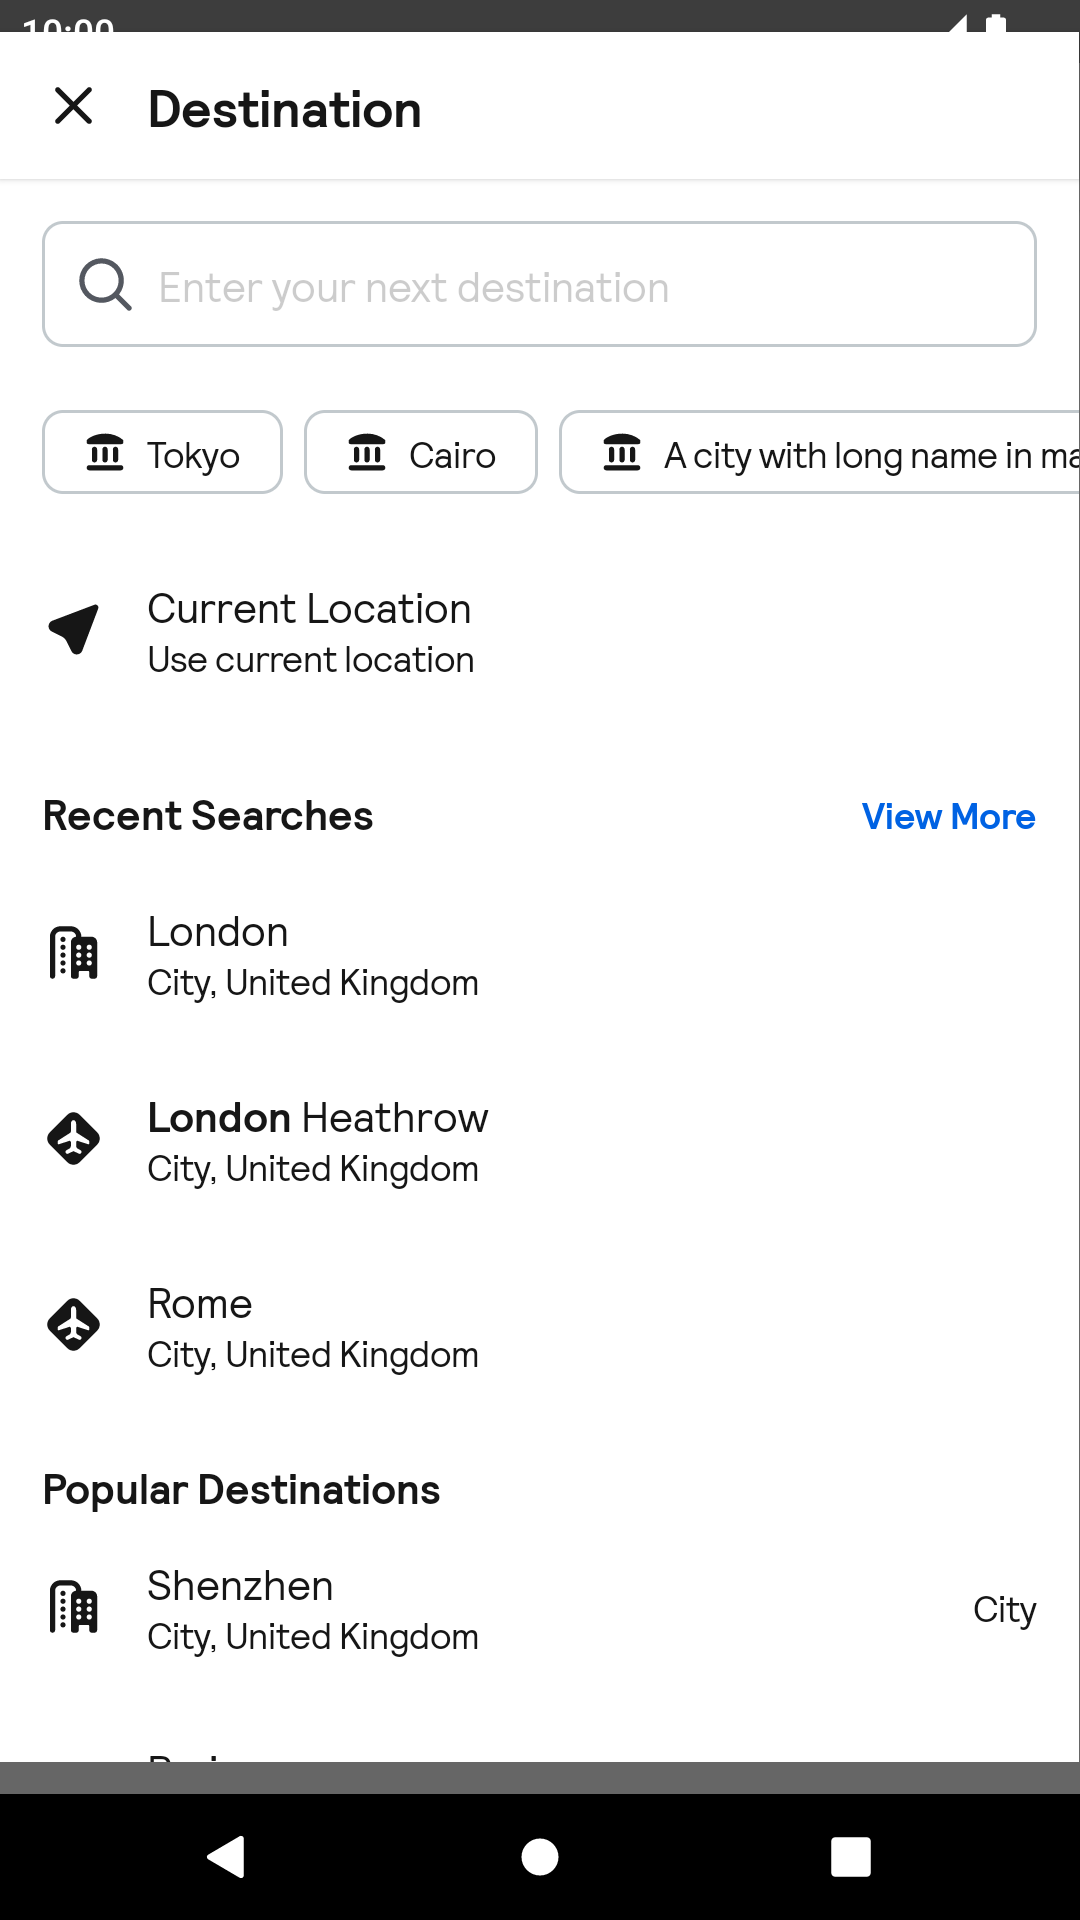
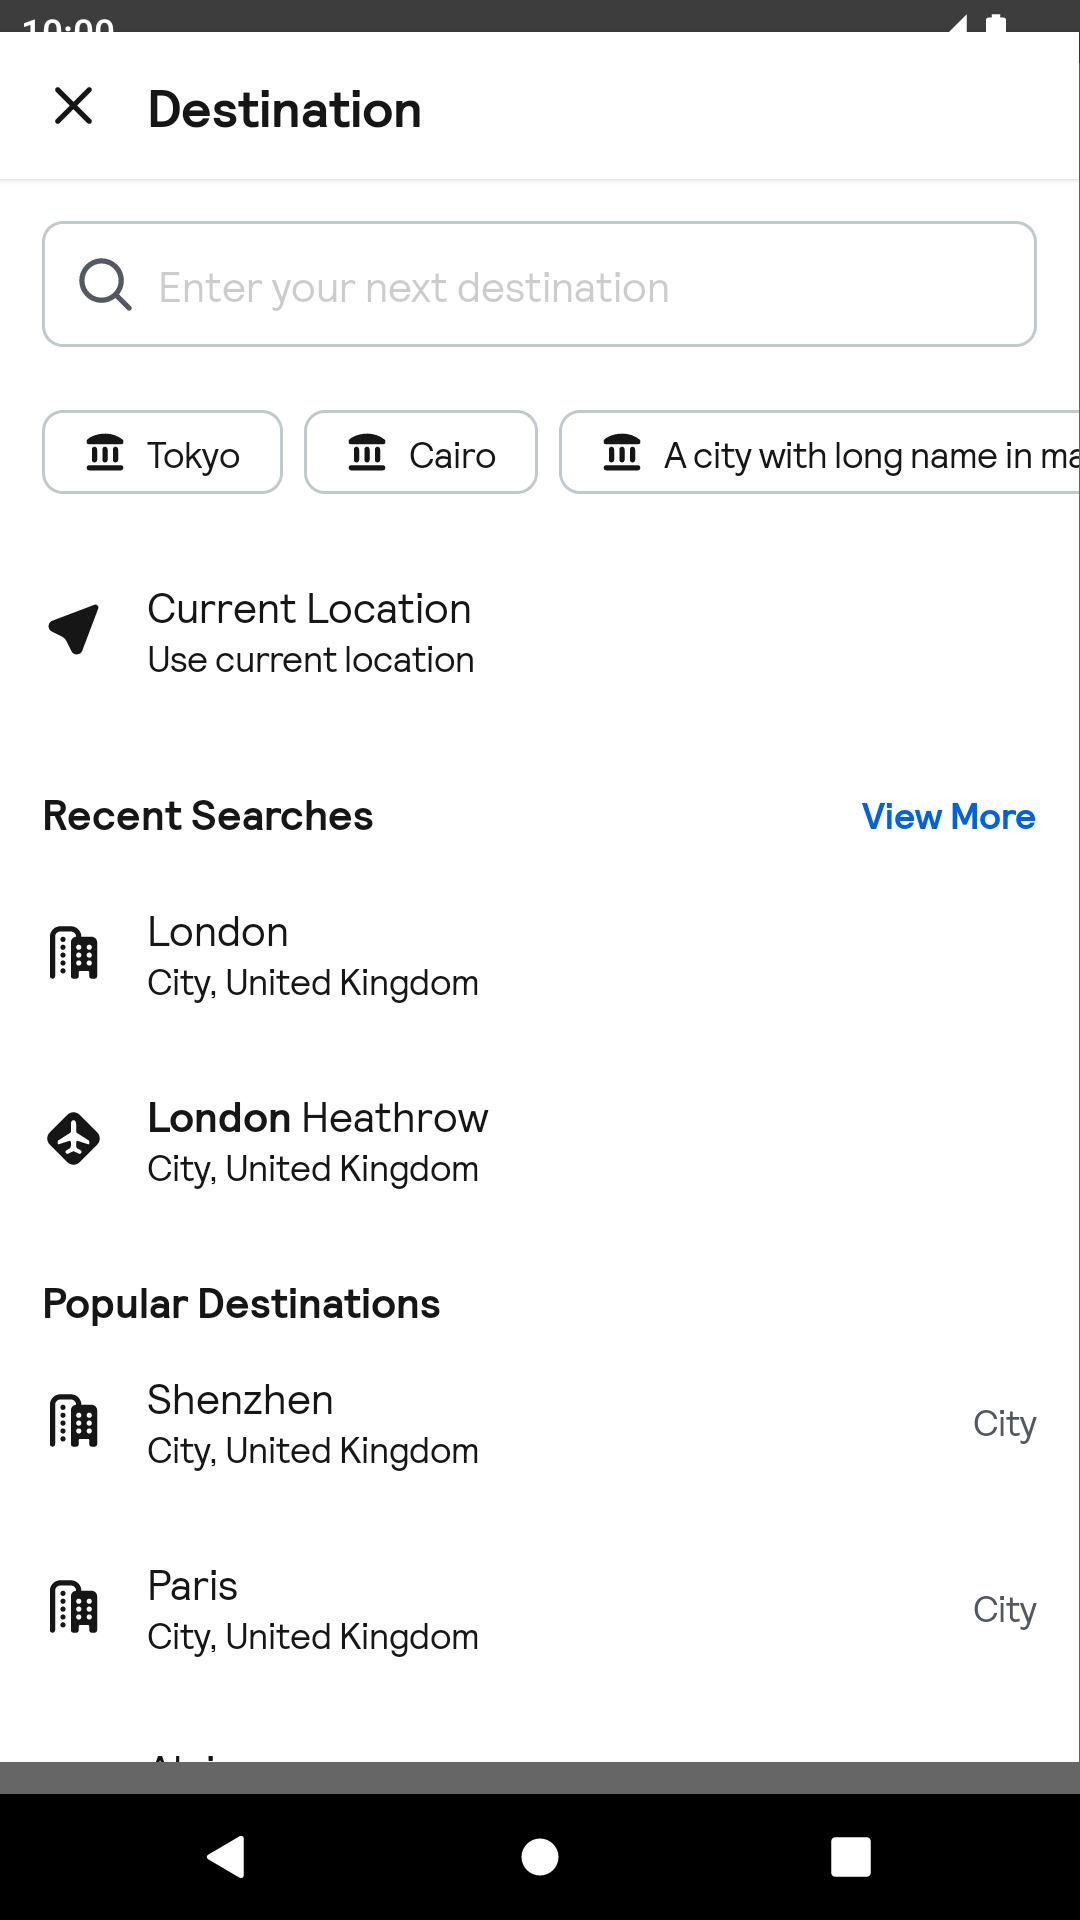
modify color and search modal snapshot test

diff --git a/app/src/main/java/net/skyscanner/backpack/demo/compose/AppSearchModalStory.kt b/app/src/main/java/net/skyscanner/backpack/demo/compose/AppSearchModalStory.kt
@@ -157,12 +157,6 @@ internal fun contentResult() = BpkAppSearchModalResult.Content(
                     icon = BpkIcon.Airports,
                     onItemSelected = {},
                 ),
-                BpkItem(
-                    title = buildAnnotatedString { append(stringResource(id = R.string.city_rome)) },
-                    subtitle = buildAnnotatedString { append(stringResource(id = R.string.search_modal_item_subtitle)) },
-                    icon = BpkIcon.Airports,
-                    onItemSelected = {},
-                ),
             ),
         ),
         BpkSection(

diff --git a/backpack-compose/src/main/kotlin/net/skyscanner/backpack/compose/appsearchmodal/internal/BpkSection.kt b/backpack-compose/src/main/kotlin/net/skyscanner/backpack/compose/appsearchmodal/internal/BpkSection.kt
@@ -89,6 +89,7 @@ internal fun BpkSectionItem(item: BpkItem, modifier: Modifier = Modifier) {
         item.tertiaryLabel?.let {
             BpkText(
                 style = BpkTheme.typography.footnote,
+                color = BpkTheme.colors.textSecondary,
                 text = it,
             )
         }
